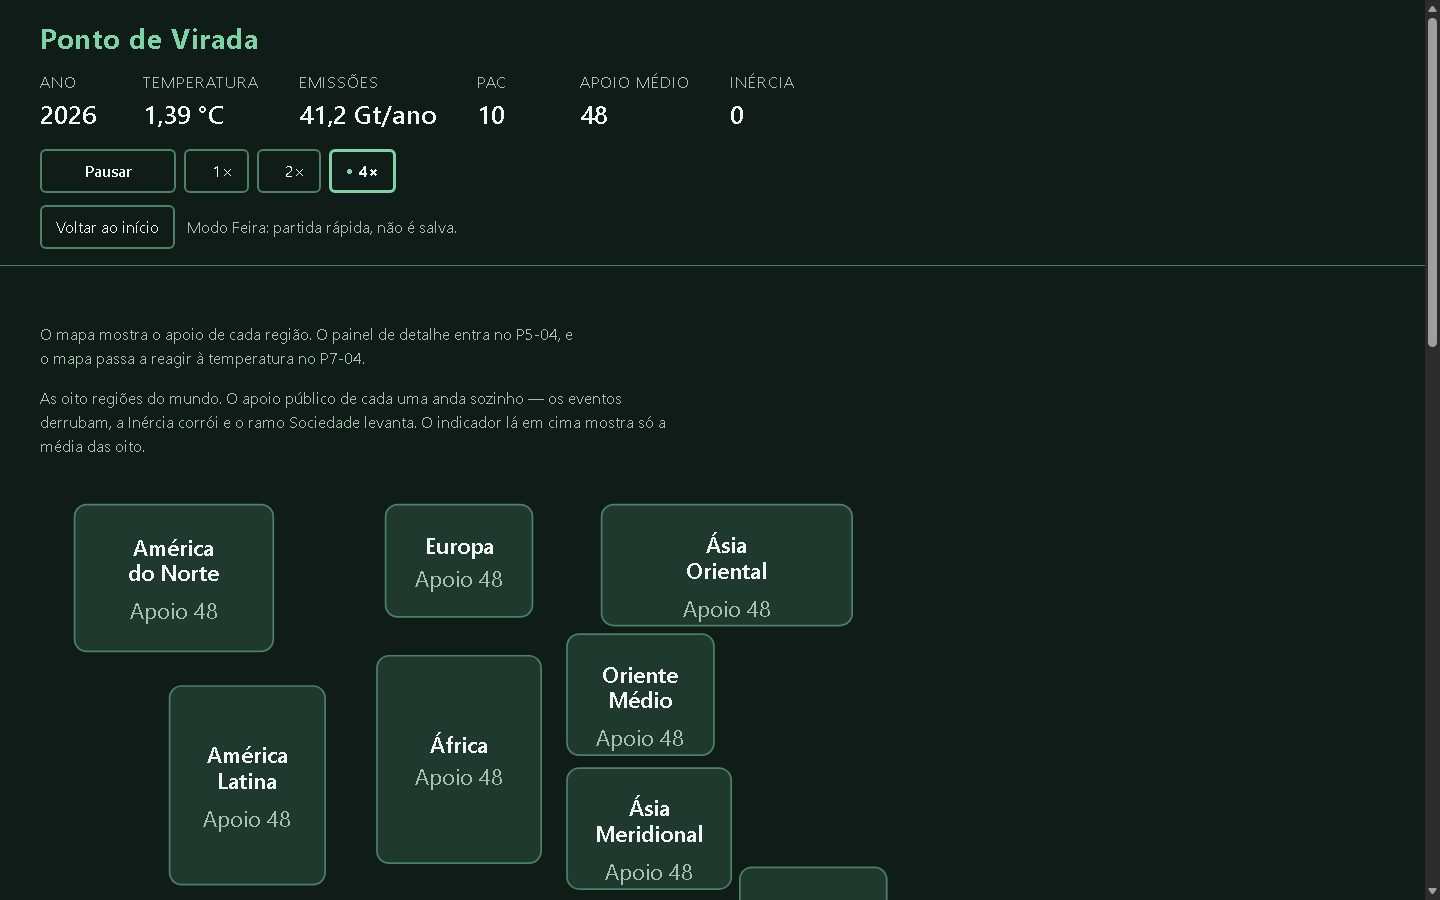
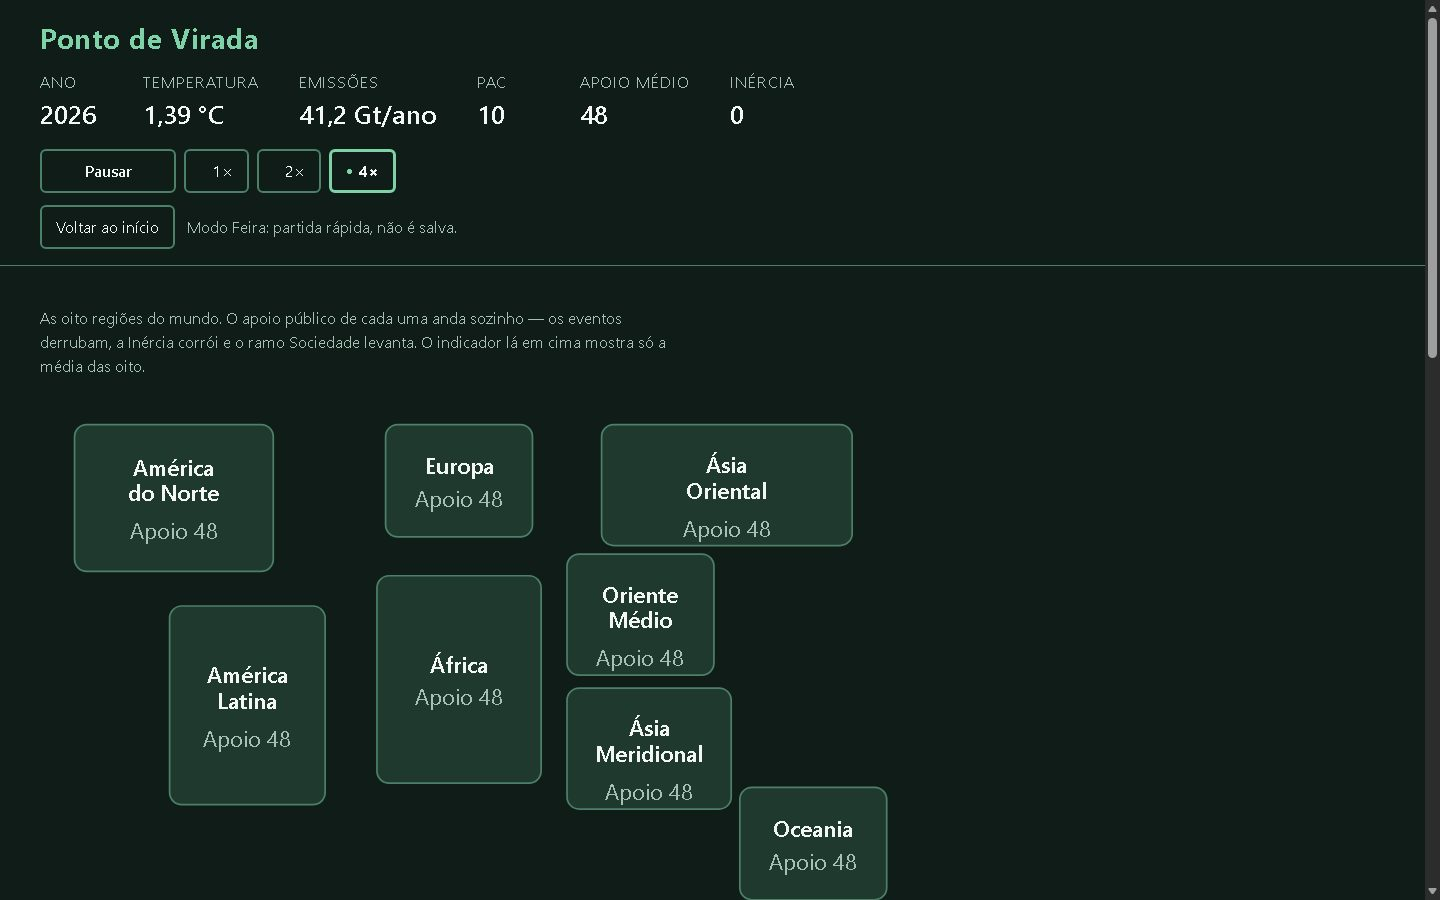
fix(ui): tira da tela o texto de andaime que citava o backlog

Changed region(s): [[0.0312, 0.4667, 0.625, 1.0], [0.0312, 0.3422, 0.375, 0.4044]]

diff --git a/src/main.ts b/src/main.ts
@@ -13,7 +13,6 @@
 // esquecer de atualizar o `previousFrame` enquanto parado, que faria o primeiro
 // quadro depois da pausa entregar o intervalo inteiro de uma vez.
 
-import { ui } from './data/i18n';
 import { contain } from './engine/inertia';
 import { isFinished } from './engine/outcome';
 import { canUnlock, unlockSkill } from './engine/skills';
@@ -141,7 +140,6 @@ const topo = required<HTMLElement>('.topo');
 const tabuleiro = required<HTMLElement>('#tabuleiro');
 const app = required<HTMLElement>('#app');
 
-required('#pendente').textContent = ui.app.pending;
 // Herdado do SETUP-02: a prova, no DevTools, de que o módulo executou.
 app.dataset.status = 'pronto';
 

diff --git a/index.html b/index.html
@@ -46,7 +46,6 @@
            o #eventos já tem dono do próprio hidden (o renderEventCards), então
            o roteador não pode mexer nas seções uma a uma. -->
       <div id="tabuleiro" class="tabuleiro">
-        <p id="pendente" class="conteudo__pendente"></p>
         <!-- Os eventos ficam acima da árvore e abaixo do resultado: durante a
            partida o resultado está escondido, então o cartão de evento é a
            primeira coisa do corpo da página — que é onde precisa estar, já que

diff --git a/src/data/i18n.ts b/src/data/i18n.ts
@@ -498,9 +498,4 @@ export const ui = {
     emissionsPerYear: 'Gt/ano',
     millions: 'milhões',
   },
-
-  app: {
-    pending:
-      'O mapa mostra o apoio de cada região. O painel de detalhe entra no P5-04, e o mapa passa a reagir à temperatura no P7-04.',
-  },
 } as const;

diff --git a/src/ui/hud.css b/src/ui/hud.css
@@ -80,8 +80,3 @@ body {
 .conteudo {
   padding: clamp(1rem, 4vw, 2.5rem);
 }
-
-.conteudo__pendente {
-  color: var(--cor-rotulo, #a7c0b4);
-  max-width: 60ch;
-}

diff --git a/PROGRESSO.md b/PROGRESSO.md
@@ -28,6 +28,84 @@ Regras curtas:
 
 ---
 
+## 2026-08-26 — Um texto de andaime saiu da tela antes de a feira ler
+
+- **Parte / tarefa:** sem ID — conserto proposto e aprovado no chat, a partir de um achado da
+  verificação do `P8-05` (entrada abaixo).
+- **O que mudou:**
+  - `src/data/i18n.ts` — o bloco `app.pending` **removido**.
+  - `src/main.ts` — a linha que o escrevia na tela, e o `import { ui }` que só existia por causa dela.
+  - `index.html` — o `<p id="pendente">`.
+  - `src/ui/hud.css` — a regra `.conteudo__pendente`.
+  - Nenhum teste mudou. A suíte segue em **650**.
+
+### A frase que ia para a feira
+
+> O mapa mostra o apoio de cada região. O painel de detalhe entra no **P5-04**, e o mapa passa a
+> reagir à temperatura no **P7-04**.
+
+O `P5-04` fechou em 25/08 e o `P7-04` em 26/08. A frase prometia o que já existia — e prometia
+citando código de backlog, que um visitante de estande lê como defeito de software, não como nota de
+desenvolvimento.
+
+### Por que remover, e não reescrever
+
+Porque a frase de baixo já dizia melhor:
+
+| elemento | texto |
+|---|---|
+| `#pendente` | "O mapa mostra o apoio de cada região. (…)" |
+| `ui.map.intro`, duas linhas abaixo | "As oito regiões do mundo. O apoio público de cada uma anda sozinho — os eventos derrubam, a Inércia corrói e o ramo Sociedade levanta. O indicador lá em cima mostra só a média das oito." |
+
+O elemento se chamava `pendente` porque **anunciava o que ainda ia chegar**. Tudo que ele anunciava
+chegou. Reescrever a frase seria inventar conteúdo novo para um lugar que não pede nenhum: o mapa já
+se apresenta, e o tutorial do `P7-08` já ensina a operar o jogo.
+
+### Duas coisas apareceram junto
+
+**1. O `tsc` achou um import órfão.** O `ui` era importado no `main.ts` **só** para essa linha —
+`noUnusedLocals` derrubou o build assim que ela saiu. Sem essa flag, o import ficaria ali para
+sempre, e o próximo a ler o arquivo suporia que o `main.ts` escreve texto na tela.
+
+**2. Ganhou-se uma dobra de tela.** Comparando os dois prints em 1440×900: com o parágrafo, a oitava
+região — a **Oceania** — ficava cortada abaixo da dobra; sem ele, o mapa inteiro cabe. Num estande,
+onde ninguém rola a página antes de decidir se aquilo ali é interessante, oitenta pixels decidem se
+o mundo aparece inteiro ou não.
+
+### Por que isso durou tanto tempo na tela
+
+**Nenhum dos 650 testes olhava para essa frase.** A suíte verde nunca disse nada sobre ela, porque
+ninguém nunca escreveu uma asserção a respeito. Quem achou foi um print — o da verificação do
+`P8-05`, tirado para provar outra coisa.
+
+Vale a lição do `P7-08`, que já tinha um teste varrendo os textos do tutorial atrás de palavras
+proibidas: **texto de UI só é verificado se alguém o verificar de propósito.**
+
+- **Como verificar:**
+
+  ```bash
+  npm run typecheck && npm run test && npm run lint && npm run build && npm run format:check
+  grep -rn "P[1-8]-0" src/data/i18n.ts | grep "'"   # sai vazio: nenhum código de backlog em texto de UI
+  ```
+
+  Na tela: comece uma partida e olhe o topo do tabuleiro. O corpo da página começa direto no texto
+  do mapa, sem parágrafo antes dele.
+
+- **Pendente:**
+  - **Não existe teste que impeça a reincidência.** A varredura acima é um `grep` rodado à mão. Um
+    teste que percorra o `i18n.ts` atrás de `P<n>-<nn>` custaria poucas linhas e fecharia a classe
+    inteira do problema — mas é arquivo de teste novo, fora do que foi pedido aqui. Fica proposto.
+  - `ui.app` deixou de existir. Se um dia algo precisar mesmo de um texto solto no topo do
+    tabuleiro, ele volta com um nome que diga o que é, e não "pendente".
+- **Evidência:**
+  - `docs/evidencias/2026-08-26-texto-andaime-na-tela-do-jogo.jpg` — o "antes", com a frase e com a
+    Oceania cortada. É o print que era a evidência do `P8-05` até este conserto.
+  - `docs/evidencias/2026-08-26-p8-05-feira-do-disco-sem-rede.jpg` — **refeito** depois da remoção,
+    para a evidência do `P8-05` casar com o código que está no repositório. Nome sem ID de tarefa no
+    primeiro arquivo porque este conserto não tem um.
+
+---
+
 ## 2026-08-26 — A feira cabe num arquivo, e o build que existia não abria
 
 - **Parte / tarefa:** `P8-05` ✔ — **e o aceite estava falhando desde o `SETUP-02`, sem ninguém ter
@@ -161,7 +239,8 @@ que criou este `P8-05`.
     estão prontas desde 25 e 26 de agosto, e o visitante do estande lê os códigos do backlog na
     tela. **Não corrigi**: é texto de UI e não build, e a regra 1 da `FORMA-DE-TRABALHO.md` manda
     propor no chat em vez de escrever código fora da tarefa. Achado no print desta própria
-    verificação — nenhum teste olha para essa frase.
+    verificação — nenhum teste olha para essa frase. **Proposto no chat e aprovado logo em
+    seguida; o conserto está na entrada de cima.**
   - **A pendência do `P8-01` fechou, e não fechou de graça.** A nota daquela tarefa dizia que valia
     abrir o build do disco *"antes de chamar a primeira pessoa, para não descobrir na frente dela"*.
     Foi o que se fez, e o que se descobriu foi que ele não abria.
